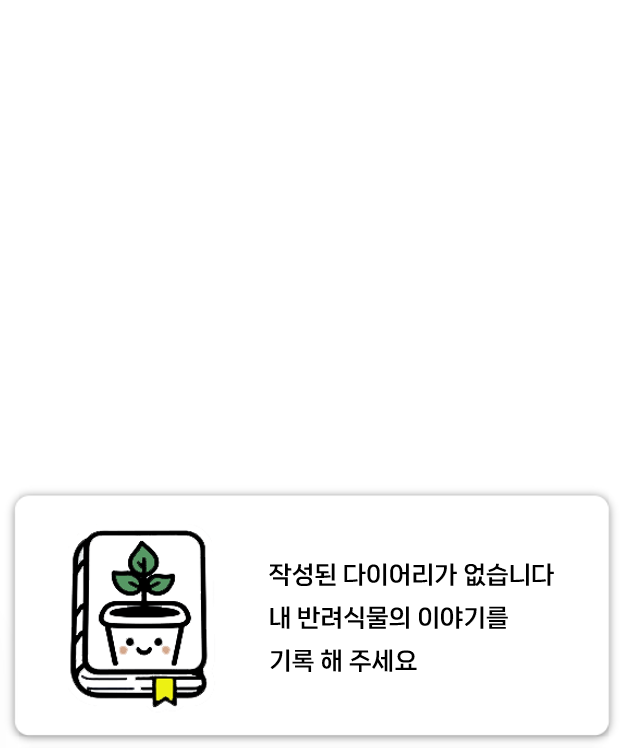
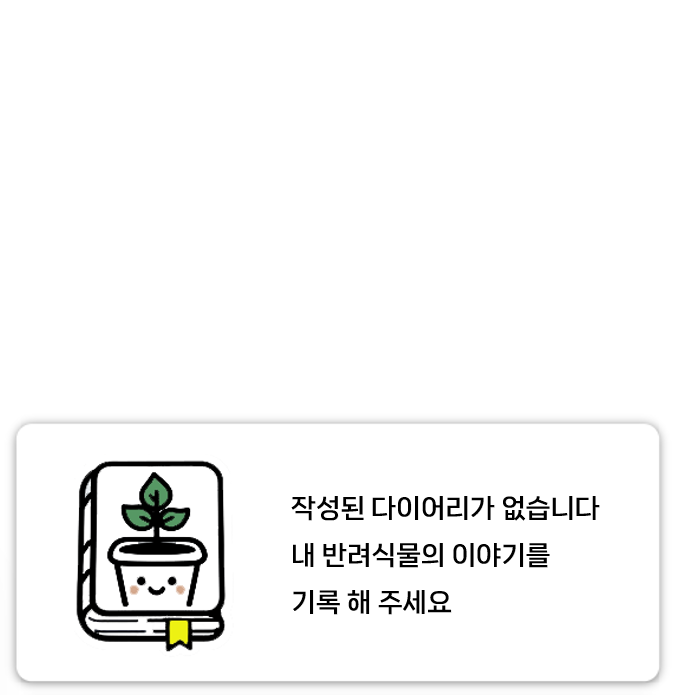
16:15_유한솔_다이어리 작성하기 페이지 수정

Changed region(s): [[0.0, 0.6043, 0.9905, 0.9669], [0.4202, 0.695, 0.9005, 0.9065], [0.9305, 0.9669, 0.9605, 0.9971]]

diff --git a/src/pages/WriteDiary.jsx b/src/pages/WriteDiary.jsx
@@ -109,11 +109,11 @@ const WriteDiary = () => {
         <div className='web_top_container'>
             <div className='writeDiary_container'>
 
-                <div className='main_big_pie1'>
-                    <div className='forDesktop2'>
+                <div className='main_page1'>
+                    <div className='withDesktop'>
                         <AiPlant />
                     </div>
-                    <div className='main_pie1'>
+                    <div className='diary_Bigpie'>
                         <div className='mid_title'>
                             <div className='mid_title2'>
                                 <img src="/Image/book_logo.PNG" alt="book" className='bookLogo' />
@@ -186,7 +186,7 @@ const WriteDiary = () => {
                                     </div>
 
                                     <div className=''>
-                                        <div className='input_container2'>
+                                        <div className='input_container2'> {/* 다이어리 작성 */}
                                             <input
                                                 className='titleBox'
                                                 placeholder='제목을 입력 해 주세요'

diff --git a/src/sass/Page_writeDiary.scss b/src/sass/Page_writeDiary.scss
@@ -49,7 +49,7 @@
     }
 }
 
-.main_pie1 {
+.diary_Bigpie {
     @include s.desktop {
         width: auto;
         height: auto;
@@ -69,6 +69,19 @@
  
     }
 }
+/************************************* 사이드 바 */
+.withDesktop {
+    @include s.desktop{
+
+    }
+    @include s.tablet {
+
+    }
+    @include s.mobile{
+        display: none;
+    }
+}
+
 
 /************************************* 모바일 식물정보 화면 */
 .profile_container2 {
@@ -265,6 +278,41 @@
     @include s.desktop {
         right: 5%;
     }
+}
+
+.write_box {
+    /* 내용 가운데 정렬 */
+    justify-content: space-around;
+    align-items: center;
+    text-align: center;
+
+    /* 상하 위치 조정 */
+    margin-bottom: 7%;
+}
+
+.titleBox,
+.contentBox {
+    /* 위치 지정 */
+    width: 100%;
+    padding: 2%;
+
+    /* 내용 왼쪽 정렬 */
+    text-align: left;
+
+    /* css */
+    color: #000000;
+    border: none;
+}
+.titleBox {
+    background-color: #DDEFC7;
+}
+.contentBox {
+    height: 200px;
+
+    @include s.tablet {
+        height: 150px;
+    }
+    
 }
 
 

diff --git a/src/css/Page_writeDiary.css b/src/css/Page_writeDiary.css
@@ -51,7 +51,7 @@
 }
 
 @media (min-width: 1200px) {
-  .main_pie1 {
+  .diary_Bigpie {
     width: auto;
     height: auto;
   }
@@ -67,6 +67,13 @@
   .partLeft {
     width: 500px;
     margin-top: 5%;
+  }
+}
+
+/************************************* 사이드 바 */
+@media (min-width: 360px) and (max-width: 799px) {
+  .withDesktop {
+    display: none;
   }
 }
 
@@ -283,5 +290,39 @@
 @media (min-width: 1200px) {
   .text_alarm {
     right: 5%;
+  }
+}
+
+.write_box {
+  /* 내용 가운데 정렬 */
+  justify-content: space-around;
+  align-items: center;
+  text-align: center;
+  /* 상하 위치 조정 */
+  margin-bottom: 7%;
+}
+
+.titleBox,
+.contentBox {
+  /* 위치 지정 */
+  width: 100%;
+  padding: 2%;
+  /* 내용 왼쪽 정렬 */
+  text-align: left;
+  /* css */
+  color: #000000;
+  border: none;
+}
+
+.titleBox {
+  background-color: #DDEFC7;
+}
+
+.contentBox {
+  height: 200px;
+}
+@media (min-width: 800px) and (max-width: 1199px) {
+  .contentBox {
+    height: 150px;
   }
 }

diff --git a/src/App.js b/src/App.js
@@ -20,7 +20,6 @@ import './css/Page_main.css';
 import './css/Page_join.css';
 import './css/Page_login.css';
 import './css/Page_mypage.css';
-import './css/Input_writeDiary.css';
 
 
 /* css파일 */

diff --git a/src/css/Page_main.css b/src/css/Page_main.css
@@ -128,6 +128,12 @@
     width: 100%;
   }
 }
+@media (min-width: 1200px) {
+  .main_pie1 {
+    width: auto;
+    height: auto;
+  }
+}
 
 .main_left {
   width: 100%;

diff --git a/src/sass/Page_mygreen.scss b/src/sass/Page_mygreen.scss
@@ -58,7 +58,6 @@
         font-weight: bolder;
         display: flex;
         align-items: center;
-        padding-left: 30px;
     }
 
     @include s.desktop {

diff --git a/src/sass/Page_main.scss b/src/sass/Page_main.scss
@@ -113,6 +113,10 @@
     @include s.mobile {
         width: 100%;
     }
+    @include s.desktop {
+        width: auto;
+        height: auto;
+    }
 }
 
 

diff --git a/src/css/Page_mygreen.css b/src/css/Page_mygreen.css
@@ -53,7 +53,6 @@
     font-weight: bolder;
     display: flex;
     align-items: center;
-    padding-left: 30px;
   }
 }
 @media (min-width: 1200px) {
